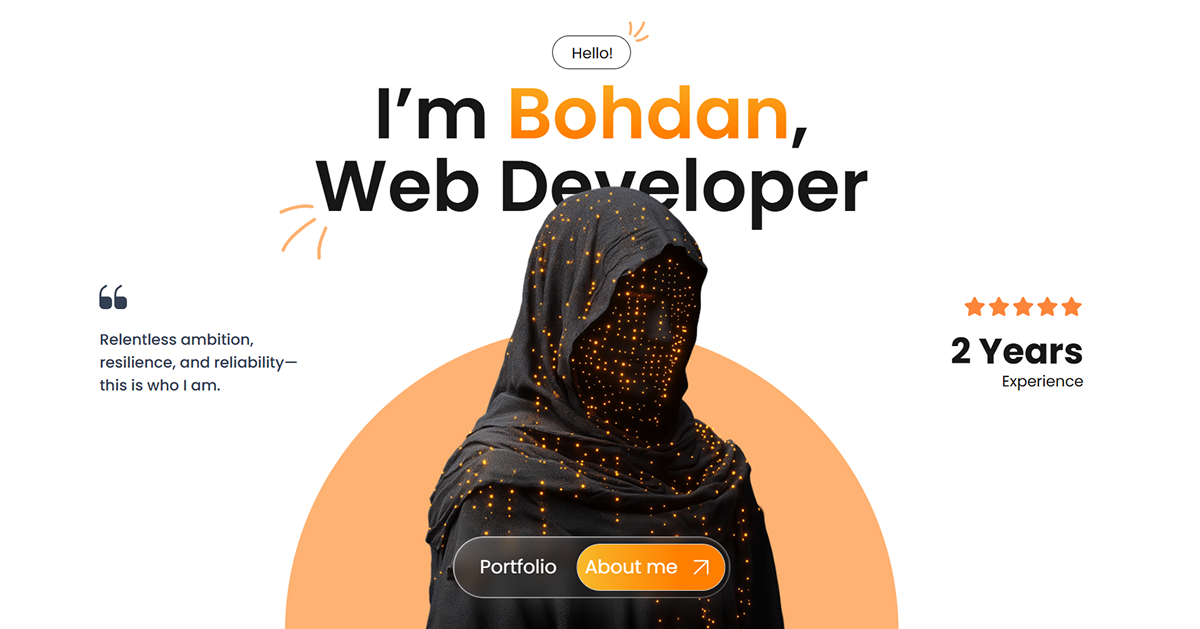
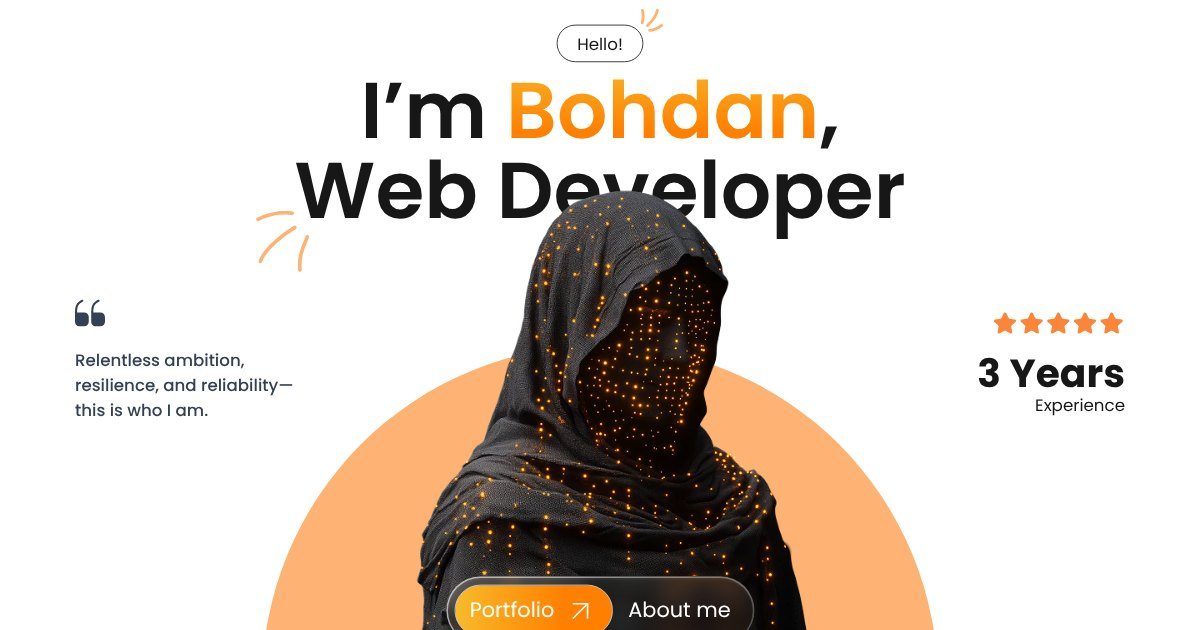
feat(seo): refresh the home preview image
The link preview still showed two years of experience. The new image is
the current hero at 1200x630 (82 KB instead of 306 KB).

diff --git a/vite.config.ts b/vite.config.ts
@@ -7,7 +7,7 @@ import { SITE_URL, absoluteUrl } from './src/config/site.ts';
 import { legalRevisions } from './src/data/legalRevisions.ts';
 import { seoHome } from './src/data/seoData.ts';
 
-const OG_IMAGE_SIZE = { width: 1200, height: 629 };
+const OG_IMAGE_SIZE = { width: 1200, height: 630 };
 
 const meta = (attrs: Record<string, string>, managedByHelmet = true): HtmlTagDescriptor => ({
   tag: 'meta',
